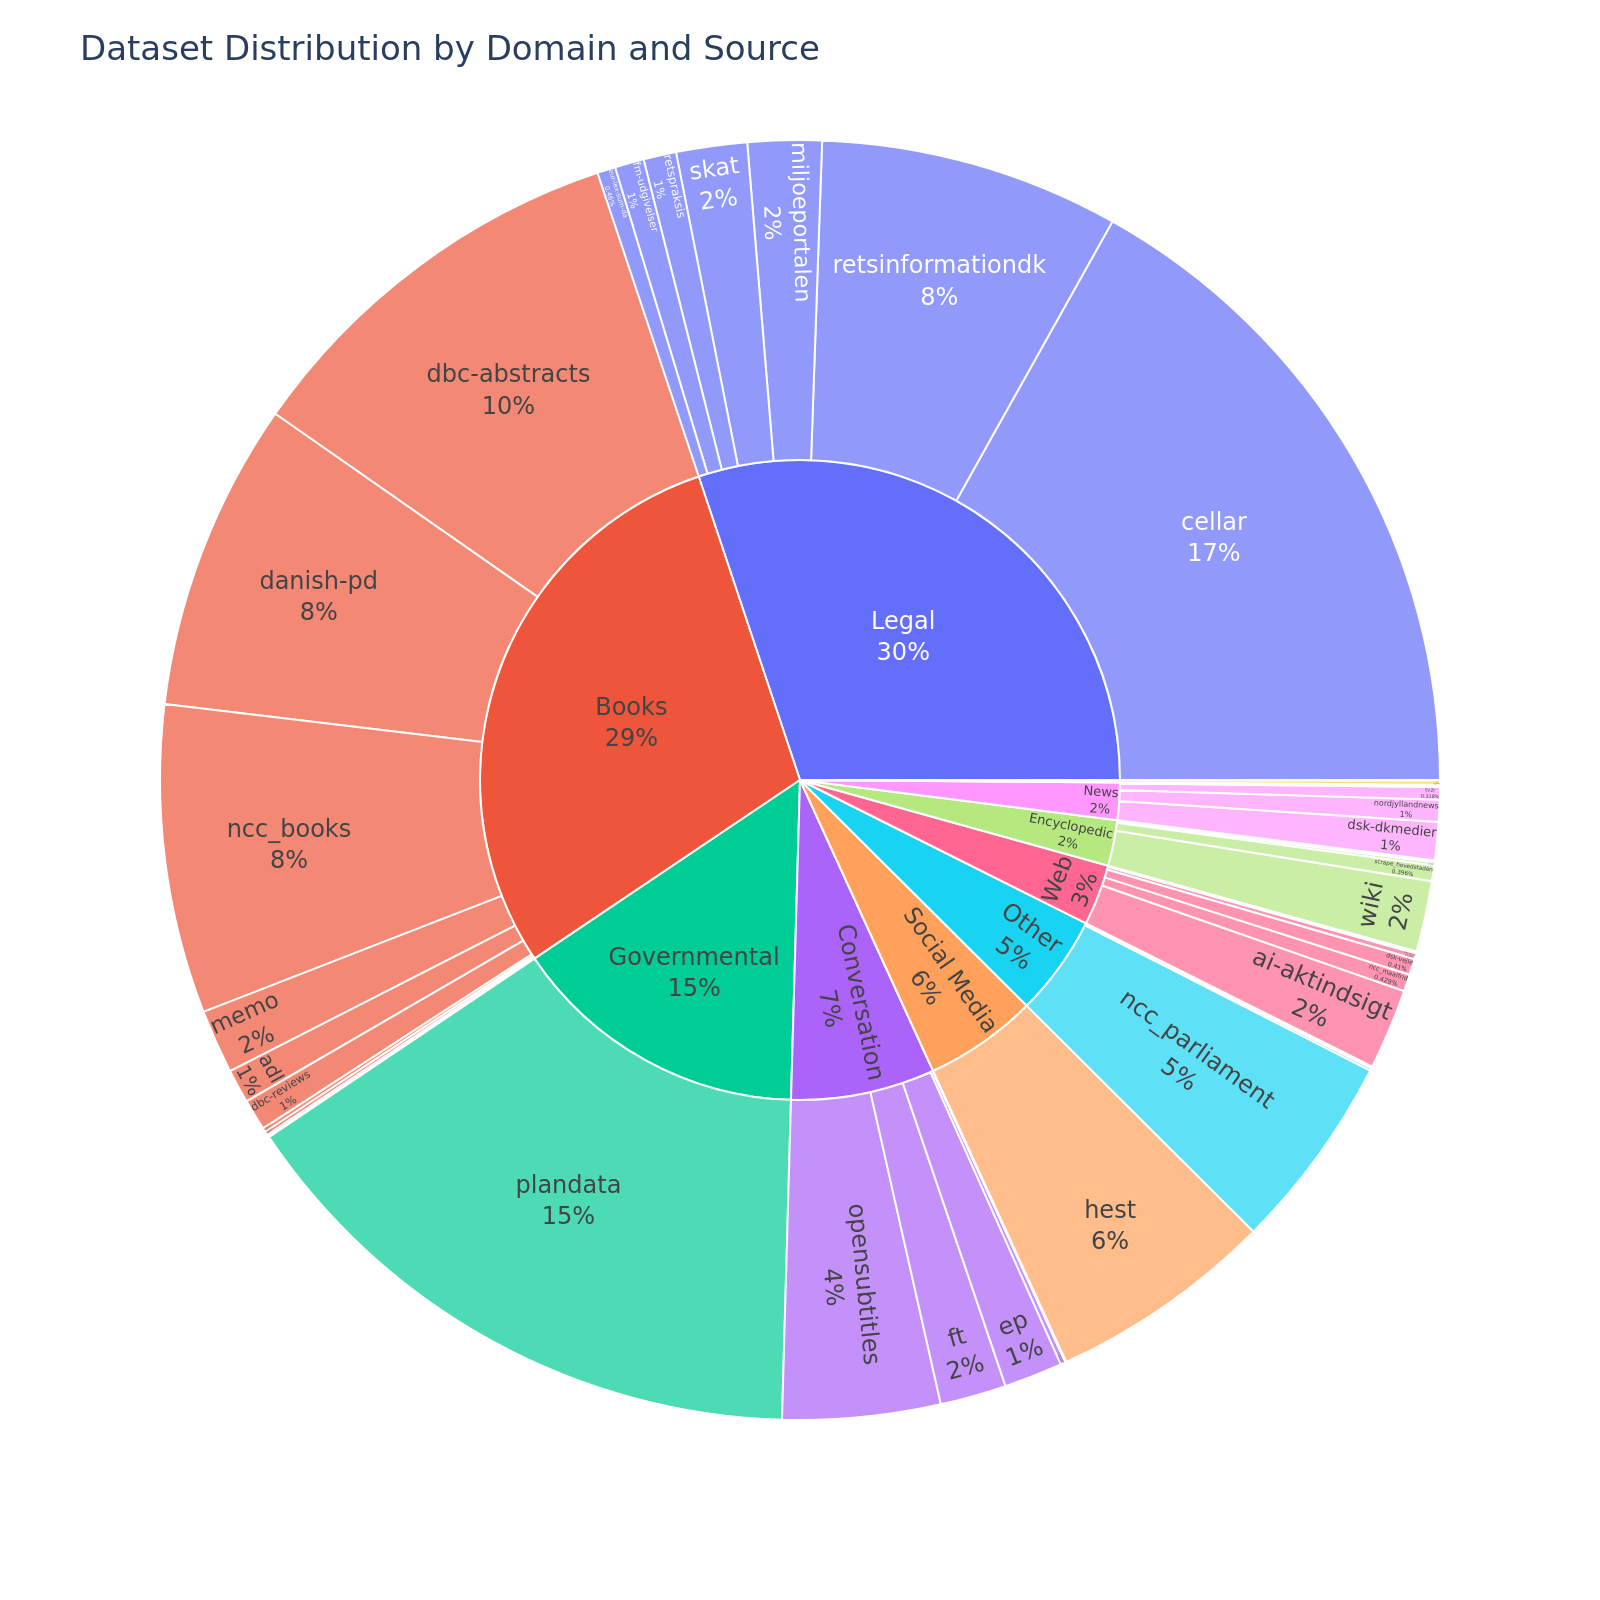
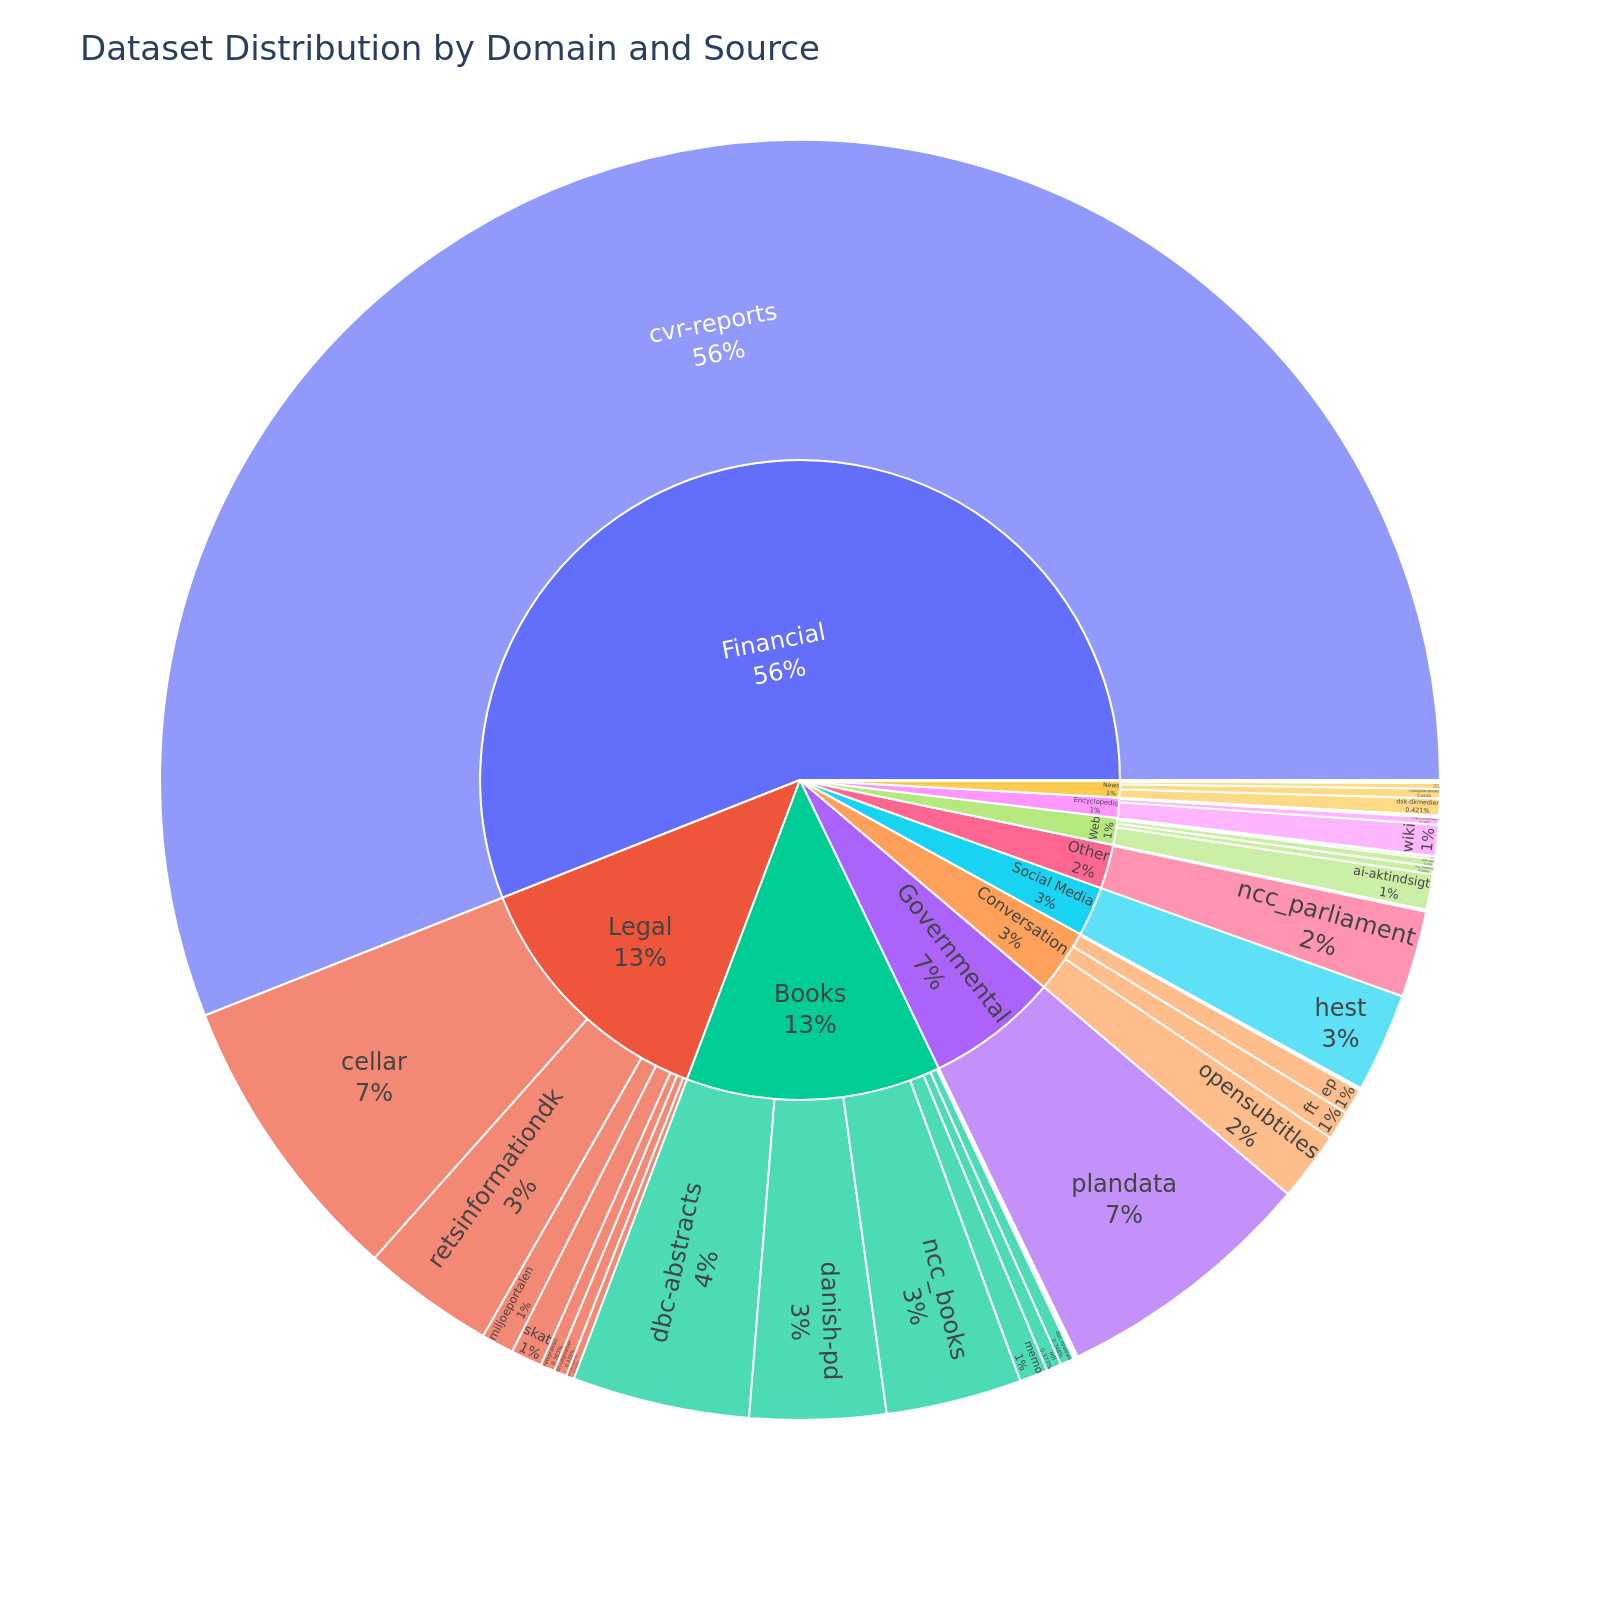
Adding a priliminary version of the Annual Reports dataset

diff --git a/data/cvr-reports/create.py b/data/cvr-reports/create.py
@@ -1,0 +1,121 @@
+# /// script
+# requires-python = ">=3.12"
+# dependencies = [
+#     "datasets==3.2.0",
+#     "pandas",
+#     "requests",
+#     "trafilatura",
+#     "dynaword"
+# ]
+# [tool.uv.sources]
+# dynaword = { git = "https://huggingface.co/datasets/danish-foundation-models/danish-dynaword", rev = "00e7f2aee7f7ad2da423419f77ecbb9c0536de0d" }
+# ///
+
+from datetime import datetime
+import gc
+import logging
+import sys
+from pathlib import Path
+from concurrent.futures import ThreadPoolExecutor
+from datasets import Dataset, load_dataset
+import pandas as pd
+from tqdm import tqdm
+import pyarrow as pa
+import pyarrow.parquet as pq
+
+from dynaword.process_dataset import (
+    add_token_count,
+    ensure_column_order,
+    remove_duplicate_text,
+    remove_empty_texts,
+)
+
+SOURCE = "cvr-reports"
+
+ROW_TEMPLATE = {
+    "id": "",
+    "source": SOURCE,
+    "added": datetime.today().date().strftime("%Y-%m-%d"),
+    "created": f"2010-01-01, {datetime.today().date().strftime('%Y-%m-%d')}",
+    "text": "",
+}
+
+
+logger = logging.getLogger(__name__)
+
+
+def get_md_files(input_dir: Path, max_size: int | None = None) -> list[Path]:
+    md_files = []
+
+    for subdir in tqdm(input_dir.iterdir(), desc="Scanning folders"):
+        md_file = subdir / f"{subdir.name}.md"
+        if md_file.exists():
+            md_files.append(md_file)
+            if max_size is not None and len(md_files) >= max_size:
+                break
+
+    return md_files
+
+
+def read_file(md_file: Path) -> dict:
+    row = ROW_TEMPLATE.copy()
+    row["id"] = md_file.stem
+    row["text"] = md_file.read_text(encoding="utf-8")
+    return row
+
+
+def main(input_dir: Path, save_path: Path):
+    # if not save_path.name.endswith(".parquet"):
+    #     save_path.mkdir(parents=True)
+    #     save_path = save_path / f"{SOURCE}.parquet"
+
+    # logger.info("Scanning files...")
+    # md_files = get_md_files(input_dir, max_size=None)
+    # logger.info(f"Found {len(md_files)} files.")
+
+    # with ThreadPoolExecutor() as executor:
+    #     rows = list(
+    #         tqdm(
+    #             executor.map(read_file, md_files),
+    #             total=len(md_files),
+    #             desc="Reading files",
+    #         )
+    #     )
+
+    # logger.info("Converting rows to dataframe")
+    # df = pd.DataFrame(rows)
+    # logger.info("Converting dataframe to table")
+    # table: pa.Table = pa.Table.from_pandas(df)
+    # logger.info("Converting table to dataset")
+
+    # # Save directly to Parquet
+    # pq.write_table(table, str(save_path))
+    # del table
+    # gc.collect()
+    new_save_path = save_path.parent / (save_path.stem + "_processed.parquet")
+    print(new_save_path)
+
+    ds = load_dataset(
+        path="parquet", data_files=[str(save_path)], split="train", num_proc=15
+    )
+    ds = remove_empty_texts(ds, num_proc=15)  # type: ignore
+    ds = remove_duplicate_text(ds)
+    ds = add_token_count(ds, num_proc=10)
+    ds = ensure_column_order(ds)
+
+    ds.to_parquet(str(new_save_path))
+
+
+if __name__ == "__main__":
+    input_path = Path(sys.argv[1])
+    save_path = Path(sys.argv[2])
+    log_path = Path(__file__).parent / f"{SOURCE}.log"
+    logging.basicConfig(
+        level=logging.INFO,
+        format="%(asctime)s - %(levelname)s - %(message)s",
+        handlers=[
+            logging.StreamHandler(),
+            logging.FileHandler(log_path),
+        ],
+    )
+    main(input_path, save_path)

diff --git a/src/datasheets/generate_sheet.py b/src/datasheets/generate_sheet.py
@@ -4,26 +4,11 @@ from pathlib import Path
 
 from datasheets.datasheet import DataSheet
 from datasheets.paths import repo_path
+from datasheets.typings import DOMAIN, LANGUAGES
 
 # --- Configuration ---
 
 # Pre-defined choices for prompts
-LANGUAGES_CHOICES = ["en", "da", "se", "no"]
-DOMAINS_CHOICES = [
-    "Books",
-    "Conversation",
-    "Dialect",
-    "Encyclopedic",
-    "Legal",
-    "News",
-    "Other",
-    "Readaloud",
-    "Social Media",
-    "Speeches",
-    "Spoken",
-    "Subtitles",
-    "Web",
-]
 LICENSE_ID_CHOICES = ["cc0-1.0", "cc-by-sa-4.0", "apache-2.0", "other"]
 LICENSE_NAMES_MAPPING = {
     "cc0-1.0": "CC-0",
@@ -57,7 +42,7 @@ def get_user_input():
     # --- Languages ---
     selected_langs = questionary.checkbox(
         "Select the languages (press space to select):",
-        choices=LANGUAGES_CHOICES + ["Other..."],
+        choices=LANGUAGES + ["Other..."],
     ).ask()
 
     if "Other..." in selected_langs:
@@ -70,9 +55,7 @@ def get_user_input():
     data["languages"] = selected_langs
 
     # --- Domains ---
-    data["domains"] = questionary.checkbox(
-        "Select the domains:", choices=DOMAINS_CHOICES
-    ).ask()
+    data["domains"] = questionary.checkbox("Select the domains:", choices=DOMAIN).ask()
 
     # --- License ---
     data["license_id"] = questionary.select(

diff --git a/src/datasheets/update_descriptive_statistics.py b/src/datasheets/update_descriptive_statistics.py
@@ -151,10 +151,10 @@ def update_dataset(
 
     # Load the dataset using `data_files` when dataset_name = "default"
 
-    load_kwargs = {"path": "parquet", "split": "train"}
+    load_kwargs: dict[str, str | list[str]] = {"path": "parquet", "split": "train"}
 
     if dataset_name == "default":
-        dataset_paths = []
+        dataset_paths: list[str] = []
 
         for dataset in _datasets:
             dataset_data_path = repo_path.parent / "datasets" / dataset / "original"
@@ -176,7 +176,7 @@ def update_dataset(
     logger.info(
         f"Computing descriptive stats for: {dataset_name} from {latest_version_dataset_path}"
     )
-    ds = load_dataset(**load_kwargs, columns=["id", "text", "token_count", "source"])
+    ds = load_dataset(**load_kwargs, columns=["id", "text", "token_count", "source"])  # type: ignore
     ds = cast(Dataset, ds)
     desc_stats = DescriptiveStatsOverview.from_dataset(ds)
     desc_stats.to_disk(desc_stats_path)

diff --git a/src/datasheets/datasheet.py b/src/datasheets/datasheet.py
@@ -11,7 +11,7 @@ from pydantic import BaseModel, field_validator
 from datasheets.descriptive_stats import DescriptiveStatsOverview
 from datasheets.plots import create_descriptive_statistics_plots
 from datasheets.typings import (
-    DOMAIN,
+    DOMAIN_TYPE,
     LANG_TYPE,
     LICENSE,
     LICENSE_NAMES_MAPPING,
@@ -55,8 +55,10 @@ class DataSheet(BaseModel):
     pretty_name: str
     license: LICENSE
     license_name: str | None
-    language: list[LANG_TYPE]
-    domains: list[DOMAIN] | None  # None for main readme # TODO: make literal
+    language: list[LANG_TYPE]  # type: ignore
+    domains: (
+        list[DOMAIN_TYPE] | None  # type: ignore
+    )  # None for main readme # TODO: make literal
     path: Path
     frontmatter: dict[str, Any]
     body: str

diff --git a/src/datasheets/typings.py b/src/datasheets/typings.py
@@ -1,10 +1,11 @@
 from typing import Literal
 
-DOMAIN = Literal[
+DOMAIN = [
     "Books",
     "Conversation",
     "Dialect",
     "Encyclopedic",
+    "Financial",
     "Governmental",
     "Legal",
     "News",
@@ -16,6 +17,7 @@ DOMAIN = Literal[
     "Subtitles",
     "Web",
 ]
+DOMAIN_TYPE = Literal[*DOMAIN]
 
 LICENSE = Literal["cc0-1.0", "other", "cc-by-sa-4.0", "apache-2.0"]
 
@@ -26,7 +28,7 @@ LICENSE_NAMES_MAPPING = {
 }
 
 LANGUAGES = ["da", "en", "se", "nb", "nn", "de", "fr", "nl", "it"]
-LANG_TYPE = Literal["da", "en", "se", "nb", "nn", "de", "fr", "nl", "it"]
+LANG_TYPE = Literal[*LANGUAGES]
 
 LANGUAGE_NAMES_MAPPING = {
     "da": "Danish",

diff --git a/README.md b/README.md
@@ -55,6 +55,7 @@ configs:
 - config_name: dbc-reviews
 - config_name: scrape_hovedstaden
 - config_name: danish-pd
+- config_name: cvr-reports
 annotations_creators:
 - no-annotation
 language_creators:
@@ -109,9 +110,9 @@ This repository contains the datasheets for DFM. This repostory documents.
 
 <!-- START-DESC-STATS -->
 - **Language**: Danish, English, Swedish, Norwegian Bokmål, Norwegian Nynorsk
-- **Number of samples**: 11.30M
-- **Number of tokens (Llama 3)**: 6.82B
-- **Average document length (characters)**: 1973.23
+- **Number of samples**: 12.66M
+- **Number of tokens (Llama 3)**: 15.81B
+- **Average document length (characters)**: 4326.36
 <!-- END-DESC-STATS -->
 
 ### Summary
@@ -130,6 +131,7 @@ We generally split the dataset into two categories: Public release sources and r
 <!-- START-MAIN TABLE -->
 | Source               | Description                                                                                                                                                                                             | Domain       | N. Tokens   | License                                           |
 |:---------------------|:--------------------------------------------------------------------------------------------------------------------------------------------------------------------------------------------------------|:-------------|:------------|:--------------------------------------------------|
+| [cvr-reports]        | Annual reports from danish companies in the period 2010-2025                                                                                                                                            | Financial    | 8.68B       | [Written agreement (public models, private data)] |
 | [cellar]             | The official digital repository for European Union legal documents and open data                                                                                                                        | Legal        | 1.15B       | [CC-BY-SA 4.0]                                    |
 | [plandata]           | A comprehensive dataset consisting of municipal planning documents from across Denmark, including local development plans, municipal plans, planning strategies, and related document types             | Governmental | 1.03B       | [Written agreement (public models, private data)] |
 | [dbc-abstracts]      | dbc-abstracts consists of more than 11.6 million abstracts of books and other materials collected and created by [DBC D1G1TAL](https://dbcdigital.dk/) (former Dansk Bibliotekscenter)                  | Books        | 694.42M     | [Written agreement (public models, private data)] |
@@ -183,7 +185,7 @@ We generally split the dataset into two categories: Public release sources and r
 | [depbank]            | The Danish subsection of the [Universal Dependencies Treebank](https://github.com/UniversalDependencies/UD_Danish-DDT)                                                                                  | Other        | 184.92K     | [CC-BY-SA 4.0]                                    |
 | [dsk-hofor]          | A collection of articles, guides and newsletters written by HOFOR for their customers                                                                                                                   | Other        | 143.49K     | [DSK-1]                                           |
 | [synne]              | Dataset collected from [synnejysk forening's website](https://www.synnejysk.dk), covering the Danish dialect sønderjysk                                                                                 | Other        | 52.02K      | [CC-0]                                            |
-| **Total**            |                                                                                                                                                                                                         |              | 6.82B       |                                                   |
+| **Total**            |                                                                                                                                                                                                         |              | 15.51B      |                                                   |
 
 [adl]: data/adl/adl.md
 [botxt]: data/botxt/botxt.md
@@ -238,6 +240,7 @@ We generally split the dataset into two categories: Public release sources and r
 [dbc-reviews]: data/dbc-reviews/dbc-reviews.md
 [scrape_hovedstaden]: data/scrape_hovedstaden/scrape_hovedstaden.md
 [danish-pd]: data/danish-pd/danish-pd.md
+[cvr-reports]: data/cvr-reports/cvr-reports.md
 
 
 [CC-0]: https://creativecommons.org/publicdomain/zero/1.0/legalcode.en
@@ -266,6 +269,7 @@ We generally split the dataset into two categories: Public release sources and r
 [Written agreement (public models, private data)]: ./data/dbc-forfatterweb/dbc-forfatterweb.md#license-information
 [Written agreement (public models, private data)]: ./data/dbc-reviews/dbc-reviews.md#license-information
 [Public Domain]: ./data/danish-pd/danish-pd.md#license-information
+[Written agreement (public models, private data)]: ./data/cvr-reports/cvr-reports.md#license-information
 <!-- END-MAIN TABLE -->
 
 <!-- **Public Release sources**: These sources include datasets that either public released under permissible licenses or where explicit permission have been given by the data owner to train and release models based on the data. The primary source for the non-public training data is [DSK](https://alexandra.dk/dsk/).

diff --git a/data/cvr-reports/cvr-reports.md b/data/cvr-reports/cvr-reports.md
@@ -1,0 +1,68 @@
+---
+pretty_name: Annual Reports (CVR)
+language:
+- da
+- en
+license: other
+license_name: Written agreement (public models, private data)
+task_categories:
+- text-generation
+- fill-mask
+task_ids:
+- language-modeling
+domains:
+- Financial
+---
+
+# Dataset Card for Annual Reports (CVR)
+
+<!-- START-SHORT DESCRIPTION -->
+Annual reports from danish companies in the period 2010-2025. 
+<!-- END-SHORT DESCRIPTION -->
+
+Danish companies are required by law to write up an annual report once every year. 
+The report contains the financials of the company along with written statements regarding the status of the company. 
+
+
+
+
+## Dataset Description
+
+<!-- START-DESC-STATS -->
+- **Language**: Danish, English
+- **Domains**: Financial
+- **Number of samples**: 1.32M
+- **Number of tokens (Llama 3)**: 8.68B
+- **Average document length (characters)**: 23942.41
+<!-- END-DESC-STATS -->
+
+
+## Dataset Structure
+An entry in the dataset consists of the following fields:
+
+- `id` (`str`): An unique identifier for each document.
+- `text`(`str`): The content of the document.
+- `source` (`str`): The source of the document (see [Source Data](#source-data)).
+- `added` (`str`): An date for when the document was added to this collection.
+- `created` (`str`): An date range for when the document was originally created.
+- `token_count` (`int`): The number of tokens in the sample computed using the Llama 8B tokenizer
+
+
+### Additional Processing
+
+
+### Dataset Statistics
+
+<!-- START-DATASET PLOTS -->
+<p align="center">
+<img src="./images/dist_document_length.png" width="600" style="margin-right: 10px;" />
+</p>
+<!-- END-DATASET PLOTS -->
+
+
+# Additional Information
+
+## License Information
+TBD
+
+### Citation Information
